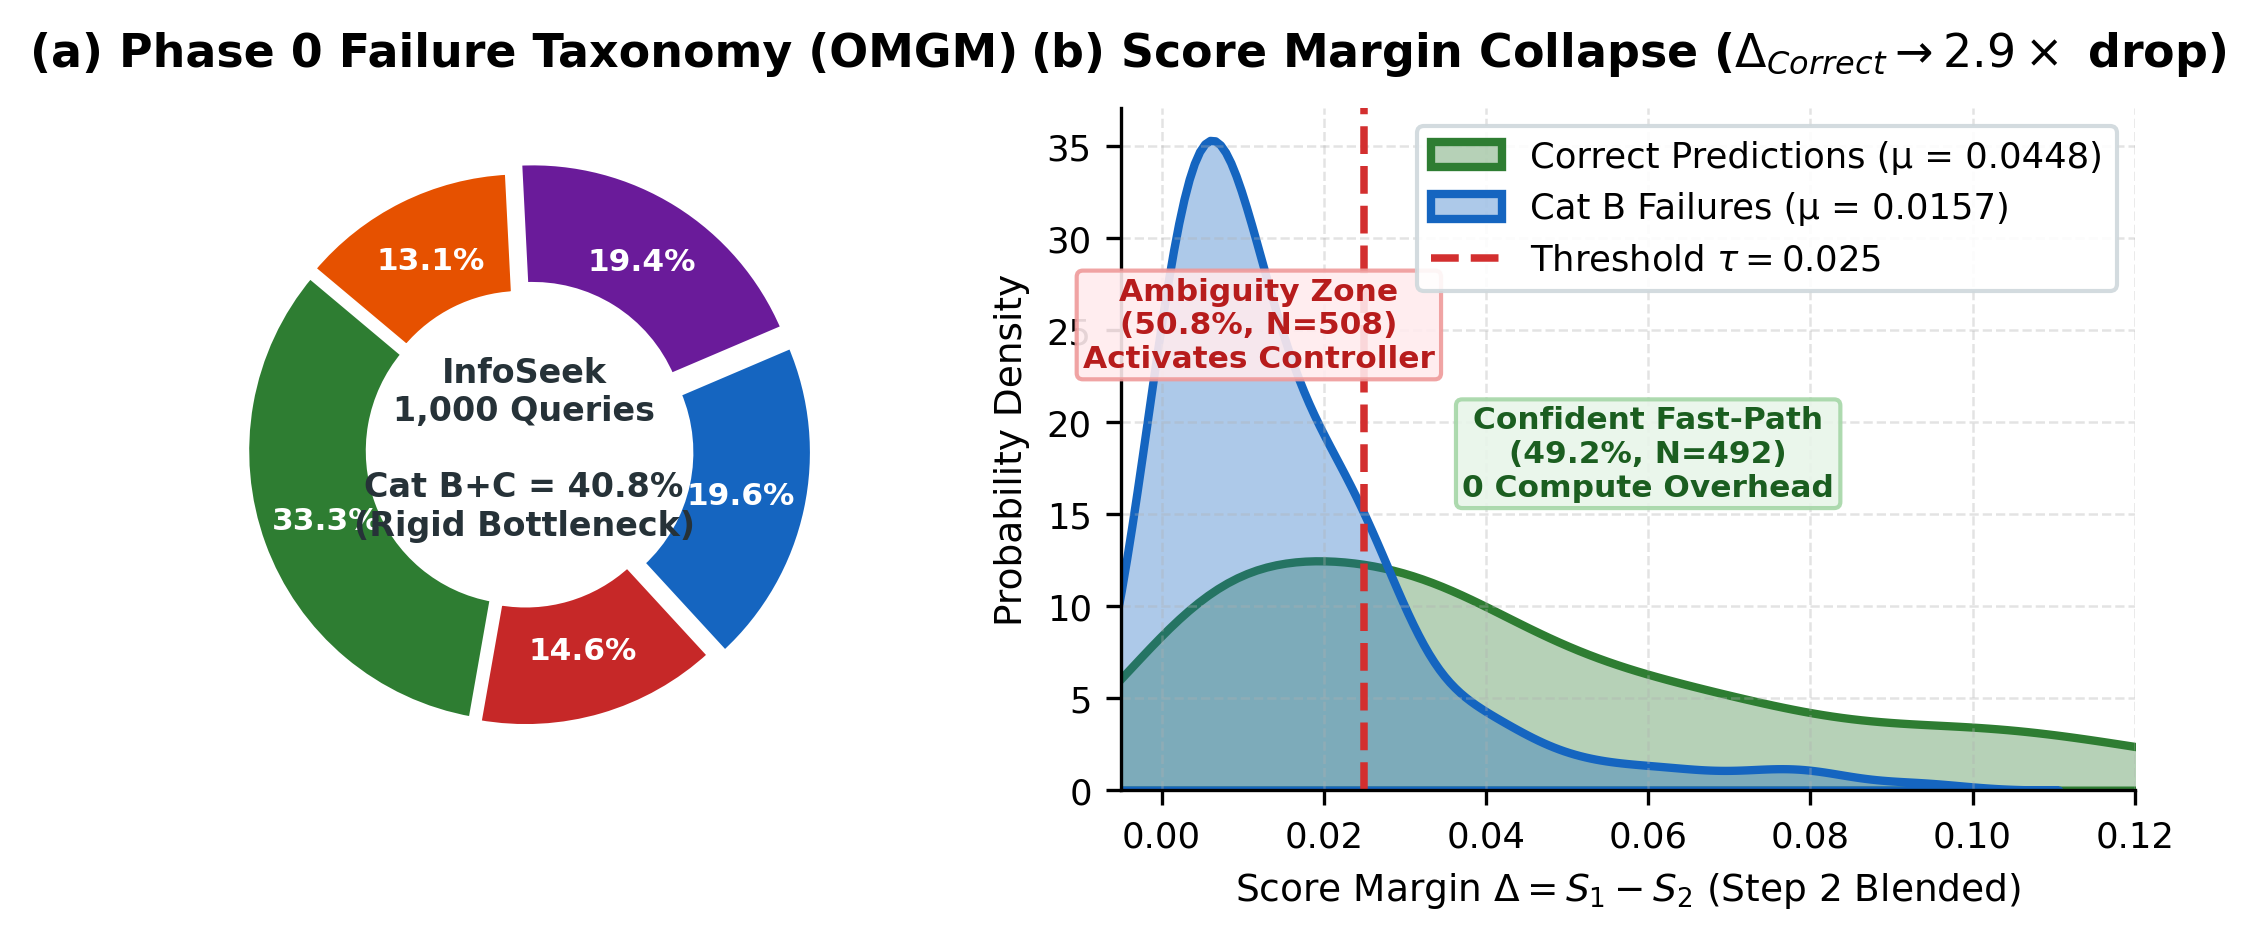
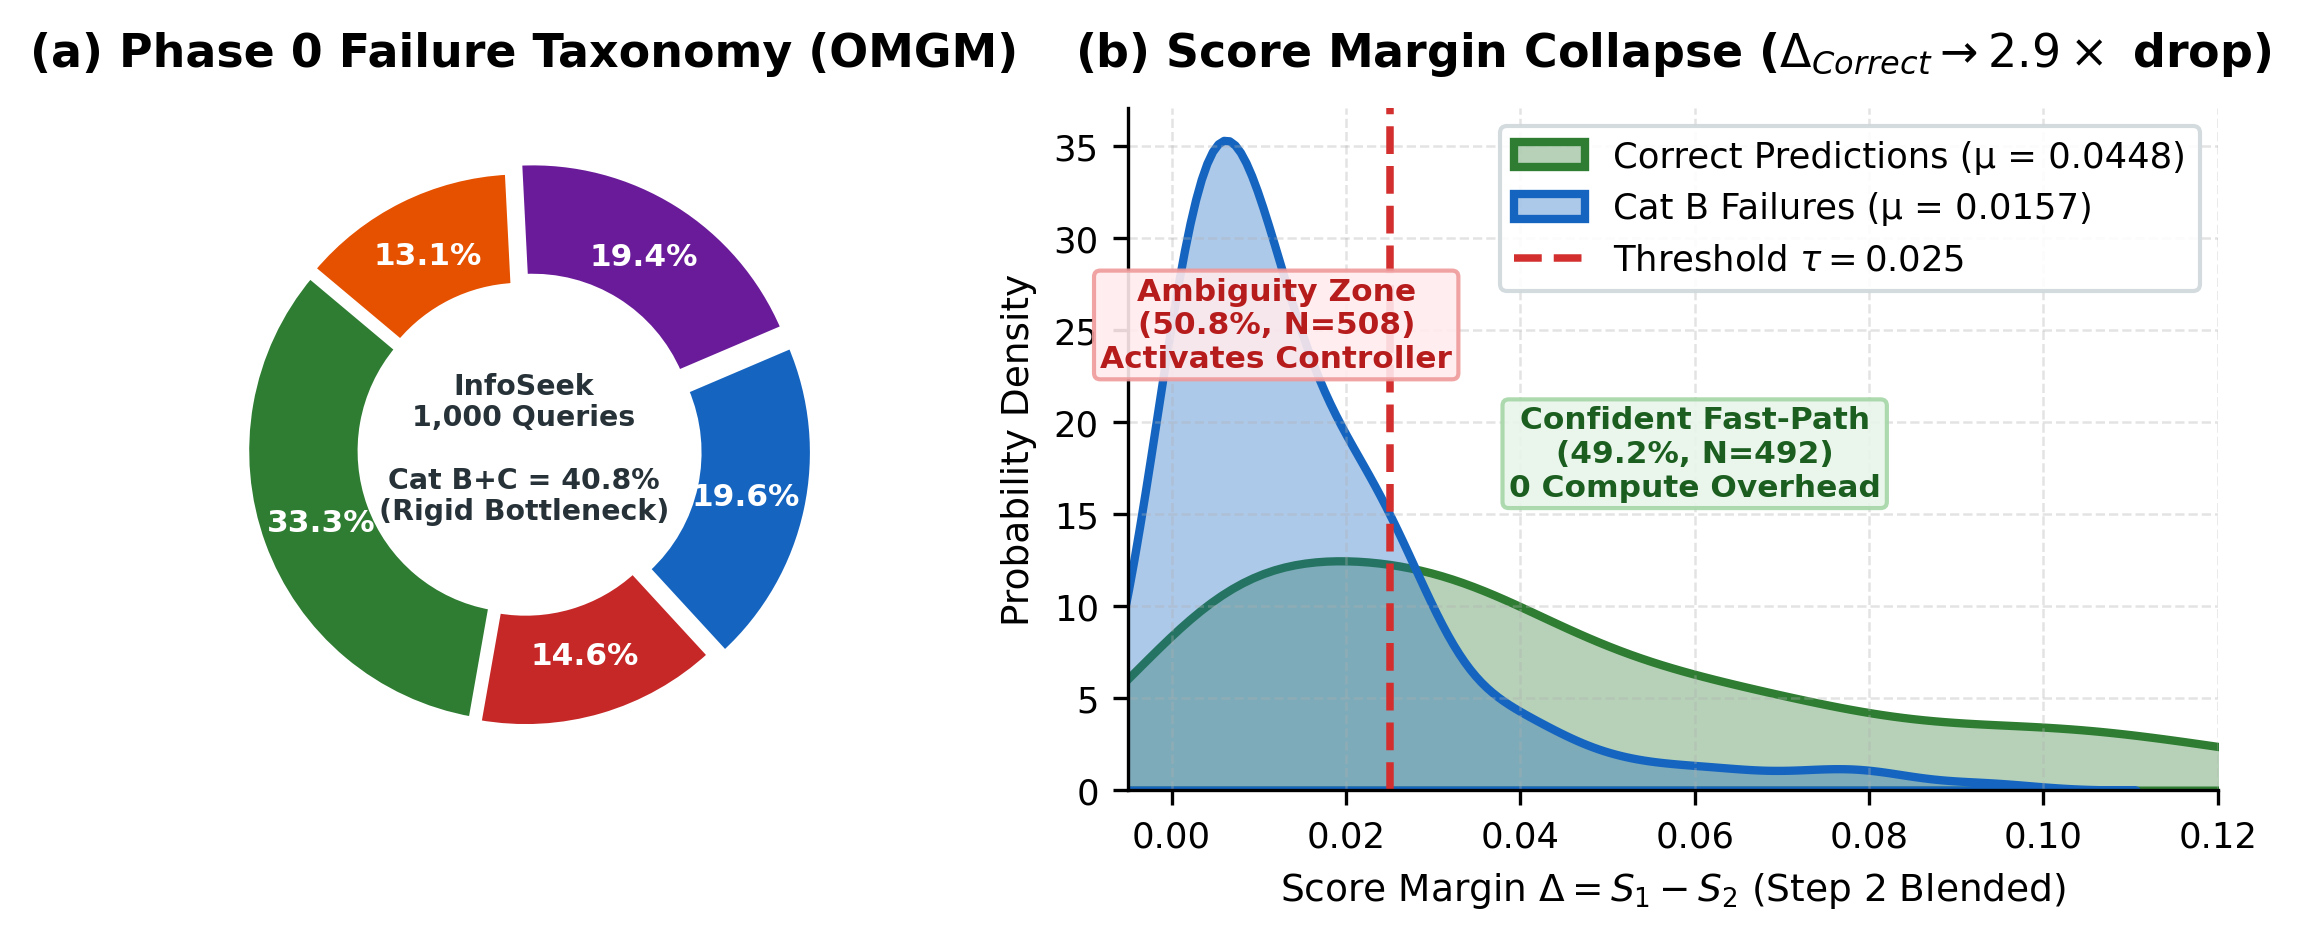
fix(paper): eliminate text, label, and legend collisions across publication figures

diff --git a/my paper track/paper works/generate_paper_figures.py b/my paper track/paper works/generate_paper_figures.py
@@ -76,12 +76,24 @@ success_deltas = [step2_data[q]['retrieval_similarities'][0] - step2_data[q]['re
                   for q in success_qids if q in step2_data]
 
 
+FIGS_DIR = os.path.join(OUTPUT_DIR, "figs")
+os.makedirs(FIGS_DIR, exist_ok=True)
+
+
+def save_figure(fig, base_filename):
+    pdf_path = os.path.join(FIGS_DIR, f"{base_filename}.pdf")
+    png_path = os.path.join(FIGS_DIR, f"{base_filename}.png")
+    fig.savefig(pdf_path, bbox_inches='tight')
+    fig.savefig(png_path, bbox_inches='tight')
+    print(f"Saved: {pdf_path} and {png_path}")
+
+
 # ===========================================================================
 # FIGURE 1: Failure Taxonomy Donut & Score-Margin Confidence Signal
 # ===========================================================================
 def plot_figure_1():
     print("Generating Figure 1: Failure Taxonomy and Score-Margin Distribution...")
-    fig, (ax1, ax2) = plt.subplots(1, 2, figsize=(7.2, 3.2), gridspec_kw={'width_ratios': [1.1, 1.3]})
+    fig, (ax1, ax2) = plt.subplots(1, 2, figsize=(7.5, 3.2), gridspec_kw={'width_ratios': [1.0, 1.25]})
 
     # --- Panel A: Donut Chart of Failure Taxonomy ---
     labels = [
@@ -100,9 +112,9 @@ def plot_figure_1():
         explode=explode, 
         colors=colors, 
         autopct='%1.1f%%',
-        pctdistance=0.75,
+        pctdistance=0.77,
         startangle=140,
-        wedgeprops=dict(width=0.45, edgecolor='white', linewidth=1.5)
+        wedgeprops=dict(width=0.42, edgecolor='white', linewidth=1.5)
     )
     for autotext in autotexts:
         autotext.set_color('white')
@@ -111,7 +123,7 @@ def plot_figure_1():
 
     # Central Callout Text
     ax1.text(0, 0, 'InfoSeek\n1,000 Queries\n\nCat B+C = 40.8%\n(Rigid Bottleneck)',
-             ha='center', va='center', fontsize=8, weight='bold', color='#263238')
+             ha='center', va='center', fontsize=6.8, weight='bold', color='#263238', linespacing=1.15)
 
     ax1.set_title('(a) Phase 0 Failure Taxonomy (OMGM)', pad=10)
 
@@ -143,12 +155,8 @@ def plot_figure_1():
     ax2.legend(loc='upper right', frameon=True, facecolor='white', edgecolor='#CFD8DC', framealpha=0.9)
 
     plt.tight_layout()
-    pdf_path = os.path.join(OUTPUT_DIR, "fig1_failure_taxonomy_and_score_margin.pdf")
-    png_path = os.path.join(OUTPUT_DIR, "fig1_failure_taxonomy_and_score_margin.png")
-    plt.savefig(pdf_path, bbox_inches='tight')
-    plt.savefig(png_path, bbox_inches='tight')
+    save_figure(fig, "fig1_failure_taxonomy_and_score_margin")
     plt.close()
-    print(f"Saved: {pdf_path} and {png_path}")
 
 
 # ===========================================================================
@@ -156,7 +164,7 @@ def plot_figure_1():
 # ===========================================================================
 def plot_figure_2():
     print("Generating Figure 2: Verifier Diagnostic & Debiasing...")
-    fig, ax = plt.subplots(figsize=(6.8, 3.2))
+    fig, ax = plt.subplots(figsize=(7.6, 3.8))
 
     metrics = [
         'Pairwise Accuracy\n(Target: >85%)',
@@ -180,47 +188,49 @@ def plot_figure_2():
         h = rect.get_height()
         ax.annotate(f'{h:.1f}%',
                     xy=(rect.get_x() + rect.get_width() / 2, h),
-                    xytext=(0, 2), textcoords="offset points",
+                    xytext=(0, 2.5), textcoords="offset points",
                     ha='center', va='bottom', fontsize=8, weight='bold', color='#37474F')
 
     for rect in rects2:
         h = rect.get_height()
         ax.annotate(f'{h:.1f}%',
                     xy=(rect.get_x() + rect.get_width() / 2, h),
-                    xytext=(0, 2), textcoords="offset points",
+                    xytext=(0, 2.5), textcoords="offset points",
                     ha='center', va='bottom', fontsize=8, weight='bold', color='#0D47A1')
 
-    # Draw 50% random chance line for Pairwise Accuracy
-    ax.axhline(50.0, color='#D32F2F', linestyle=':', linewidth=1.2, alpha=0.7)
-    ax.text(0.35, 51.5, 'Random Chance (50.0%)', color='#D32F2F', fontsize=7.5, fontstyle='italic')
+    # Draw 50% random chance line specifically for binary Pairwise Accuracy (Metric 0)
+    ax.hlines(50.0, -0.42, 0.42, color='#D32F2F', linestyle=':', linewidth=1.5, alpha=0.85)
+    ax.text(0.0, 52.0, 'Random Chance (50.0%)', color='#D32F2F', fontsize=7.2, fontstyle='italic', ha='center')
 
-    # Annotate key jumps
-    ax.annotate('+57.8% Gain\n(Visual Calibration)', xy=(0, 92), xytext=(0, 102),
-                ha='center', fontsize=7.5, weight='bold', color='#0D47A1',
+    # Annotate key jumps with clean badge boxes and non-overlapping arrow targets
+    ax.annotate('+57.8% Gain\n(Visual Calibration)', 
+                xy=(width/2, 96.5), xytext=(width/2, 107.5),
+                ha='center', fontsize=7.2, weight='bold', color='#0D47A1',
+                bbox=dict(boxstyle='round,pad=0.22', facecolor='#E3F2FD', edgecolor='#90CAF9', alpha=0.9),
                 arrowprops=dict(arrowstyle='->', color='#0D47A1', lw=1.2))
 
-    ax.annotate('13.2x Bias Drop\n(17.5% -> 1.33%)', xy=(1, 20), xytext=(1, 35),
-                ha='center', fontsize=7.5, weight='bold', color='#0D47A1',
+    ax.annotate('13.2x Bias Drop\n(17.5% -> 1.33%)', 
+                xy=(1 + width/2, 8.0), xytext=(1.0, 31.0),
+                ha='center', fontsize=7.2, weight='bold', color='#0D47A1',
+                bbox=dict(boxstyle='round,pad=0.22', facecolor='#E3F2FD', edgecolor='#90CAF9', alpha=0.9),
                 arrowprops=dict(arrowstyle='->', color='#0D47A1', lw=1.2))
 
-    ax.annotate('100% Strict Token\nProtocol Adherence', xy=(2, 10), xytext=(2, 35),
-                ha='center', fontsize=7.5, weight='bold', color='#0D47A1',
+    ax.annotate('100% Strict Token\nProtocol (0.0% Drift)', 
+                xy=(2 + width/2, 8.0), xytext=(2.0, 66.0),
+                ha='center', fontsize=7.2, weight='bold', color='#0D47A1',
+                bbox=dict(boxstyle='round,pad=0.22', facecolor='#E3F2FD', edgecolor='#90CAF9', alpha=0.9),
                 arrowprops=dict(arrowstyle='->', color='#0D47A1', lw=1.2))
 
-    ax.set_ylabel('Percentage (%)', fontsize=10)
+    ax.set_ylabel('Percentage (%)', fontsize=9.5)
     ax.set_title('Diagnostic Validation: Zero-Shot Foundation VLM vs. Calibrated PEFT Verifier (Held-out 600 Pairs)', pad=12)
     ax.set_xticks(x)
-    ax.set_xticklabels(metrics, fontsize=8.5)
-    ax.set_ylim(0, 115)
-    ax.legend(loc='upper right', frameon=True, facecolor='white', edgecolor='#CFD8DC')
+    ax.set_xticklabels(metrics, fontsize=8, rotation=20, ha='right', rotation_mode='anchor')
+    ax.set_ylim(0, 122)
+    ax.legend(loc='upper center', bbox_to_anchor=(0.58, 0.98), ncol=1, frameon=True, facecolor='white', edgecolor='#CFD8DC', framealpha=0.95, fontsize=7.8)
 
     plt.tight_layout()
-    pdf_path = os.path.join(OUTPUT_DIR, "fig2_verifier_diagnostic_and_debiasing.pdf")
-    png_path = os.path.join(OUTPUT_DIR, "fig2_verifier_diagnostic_and_debiasing.png")
-    plt.savefig(pdf_path, bbox_inches='tight')
-    plt.savefig(png_path, bbox_inches='tight')
+    save_figure(fig, "fig2_verifier_diagnostic_and_debiasing")
     plt.close()
-    print(f"Saved: {pdf_path} and {png_path}")
 
 
 # ===========================================================================
@@ -228,15 +238,15 @@ def plot_figure_2():
 # ===========================================================================
 def plot_figure_3():
     print("Generating Figure 3: The 2x2 Capacity & Verification Matrix...")
-    fig, (ax1, ax2) = plt.subplots(1, 2, figsize=(7.4, 3.4), gridspec_kw={'width_ratios': [1.0, 1.25]})
+    fig, (ax1, ax2) = plt.subplots(1, 2, figsize=(7.5, 3.6), gridspec_kw={'width_ratios': [1.0, 1.25]})
 
     # --- Panel A: VQA Accuracy Across 4 Quadrants ---
     configs = [
-        'Baseline\n(OMGM)',
-        '7B LoRA\n(Cat B)',
-        '13B LoRA\n(Cat B)',
-        '7B LoRA\n(Cat B+C)',
-        '13B LoRA\n(Cat B+C)'
+        'Baseline (OMGM)',
+        '7B LoRA (Cat B)',
+        '13B LoRA (Cat B)',
+        '7B LoRA (Cat B+C)',
+        '13B LoRA (Cat B+C)'
     ]
     accuracies = [34.90, 36.00, 35.60, 35.10, 36.30]
     bar_colors = ['#455A64', '#00897B', '#5C6BC0', '#80CBC4', '#283593']
@@ -266,9 +276,9 @@ def plot_figure_3():
     ax1.set_ylabel('InfoSeek VQA Accuracy (%)', fontsize=9.5)
     ax1.set_ylim(34.0, 37.2)
     ax1.set_xticks(x)
-    ax1.set_xticklabels(configs, fontsize=7.5)
+    ax1.set_xticklabels(configs, fontsize=8, rotation=25, ha='right', rotation_mode='anchor')
     ax1.set_title('(a) VQA Accuracy Scaling', pad=10)
-    ax1.legend(loc='lower left', fontsize=7.5)
+    ax1.legend(loc='lower left', fontsize=7.5, frameon=True, facecolor='white', edgecolor='#CFD8DC', framealpha=0.9)
 
     # --- Panel B: Recovery vs Degradation Dynamics ---
     models = ['7B (Cat B)', '13B (Cat B)', '7B (Cat B+C)', '13B (Cat B+C)']
@@ -293,23 +303,22 @@ def plot_figure_3():
 
     # Separation line between Cat B and Cat B+C
     ax2.axvline(1.5, color='#B0BEC5', linestyle=':', linewidth=1.5)
-    ax2.text(0.75, 43, 'Category B Only\n(Focused Reranking)', ha='center', fontsize=7.5, weight='bold', color='#37474F')
-    ax2.text(2.5, 43, 'Category B + C\n(Multi-Section Context)', ha='center', fontsize=7.5, weight='bold', color='#37474F')
+    ax2.text(0.5, 53.5, 'Category B Only\n(Focused Reranking)', ha='center', va='center', fontsize=7.5, weight='bold', color='#263238',
+             bbox=dict(boxstyle='round,pad=0.28', facecolor='#ECEFF1', edgecolor='#CFD8DC', alpha=0.95))
+    ax2.text(2.5, 53.5, 'Category B + C\n(Multi-Section Context)', ha='center', va='center', fontsize=7.5, weight='bold', color='#263238',
+             bbox=dict(boxstyle='round,pad=0.28', facecolor='#ECEFF1', edgecolor='#CFD8DC', alpha=0.95))
 
     ax2.set_ylabel('Number of Queries (out of 1,000)', fontsize=9.5)
-    ax2.set_ylim(0, 50)
+    ax2.set_ylim(0, 58)
+    ax2.set_yticks([0, 10, 20, 30, 40, 50])
     ax2.set_xticks(x2)
-    ax2.set_xticklabels(models, fontsize=8)
+    ax2.set_xticklabels(models, fontsize=8, rotation=25, ha='right', rotation_mode='anchor')
     ax2.set_title('(b) Query Recovery vs. Degradation Dynamics', pad=10)
-    ax2.legend(loc='upper left', fontsize=7.5, frameon=True, facecolor='white', edgecolor='#CFD8DC')
+    ax2.legend(loc='upper left', bbox_to_anchor=(0.01, 0.85), fontsize=7.2, frameon=True, facecolor='white', edgecolor='#CFD8DC', framealpha=0.95)
 
     plt.tight_layout()
-    pdf_path = os.path.join(OUTPUT_DIR, "fig3_scaling_matrix_double_dissociation.pdf")
-    png_path = os.path.join(OUTPUT_DIR, "fig3_scaling_matrix_double_dissociation.png")
-    plt.savefig(pdf_path, bbox_inches='tight')
-    plt.savefig(png_path, bbox_inches='tight')
+    save_figure(fig, "fig3_scaling_matrix_double_dissociation")
     plt.close()
-    print(f"Saved: {pdf_path} and {png_path}")
 
 
 if __name__ == '__main__':
